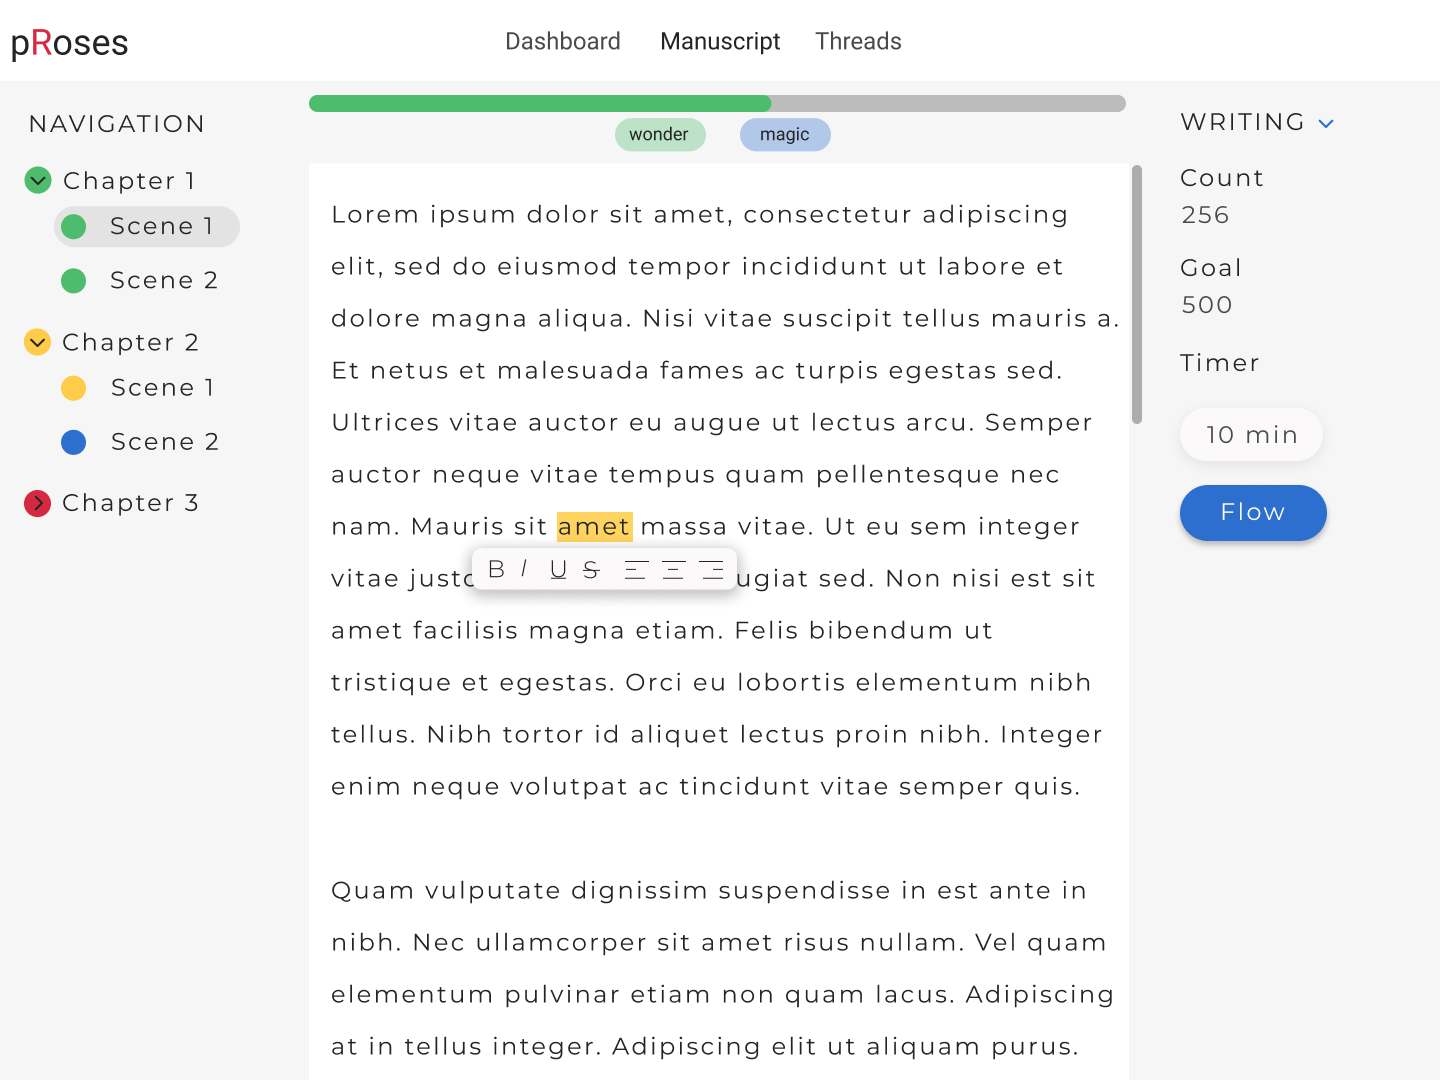
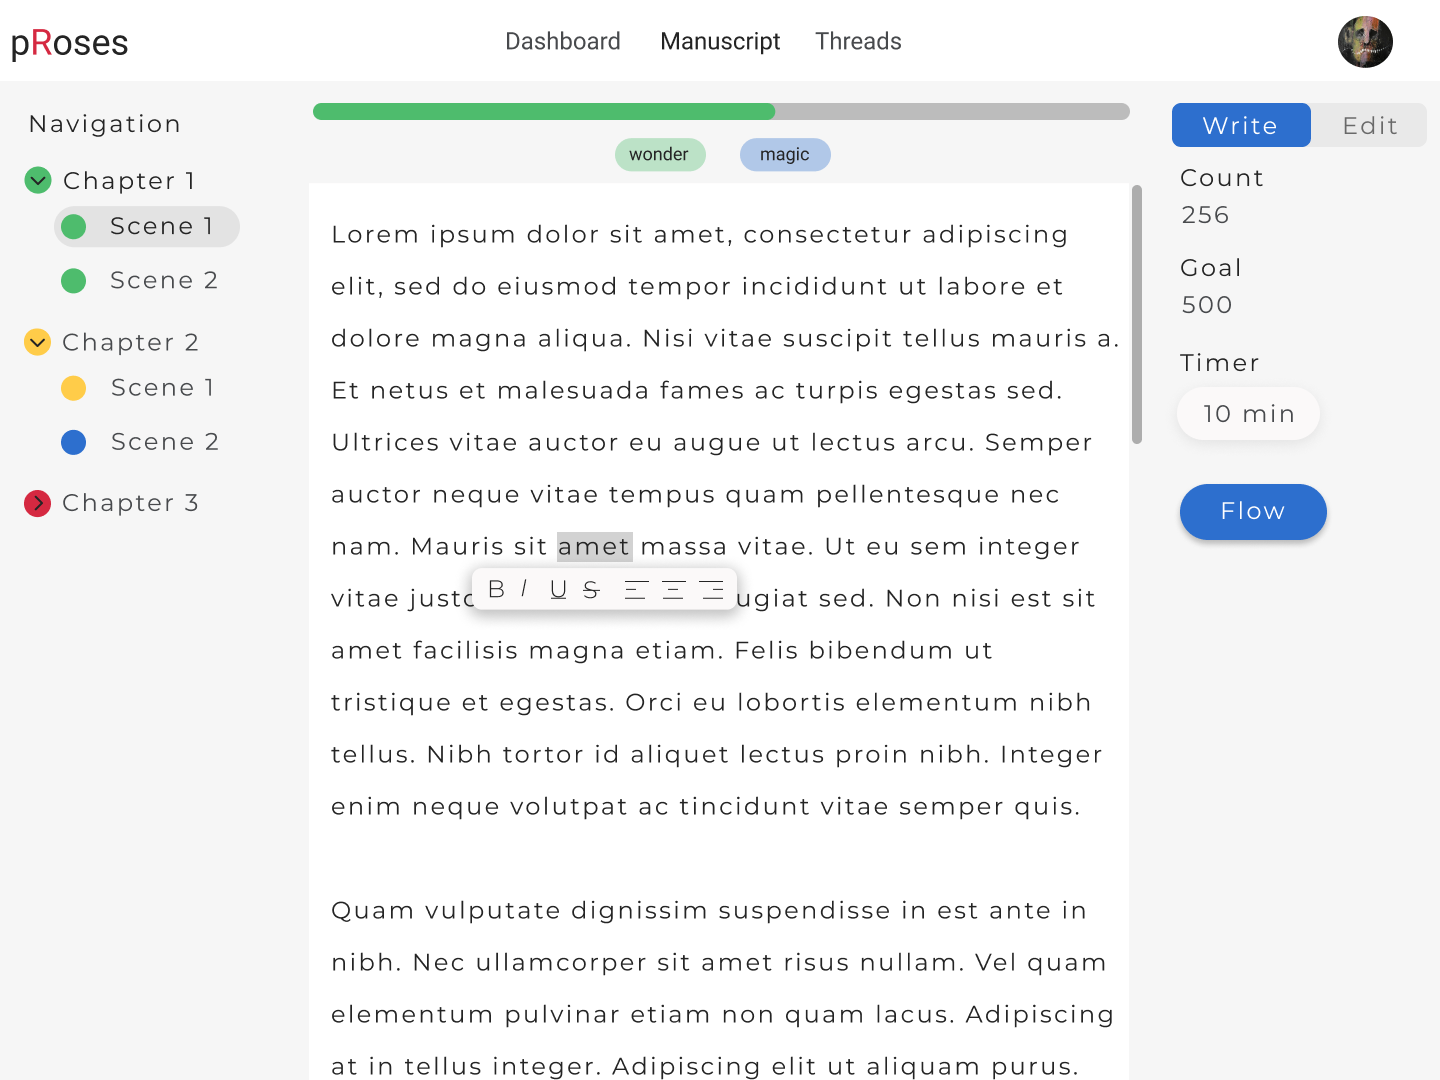
Changed Header

diff --git a/simplechartsri.html b/simplechartsri.html
@@ -44,11 +44,9 @@
         Help Teachers Create Engaging Visualizations
       </h2>
 
-      <div class="tags">
-        <div id="tag" style="padding-top: 1rem !important">
-          <p>10/11/21: Research Article Accepted by Frontiers Journal!</p>
-        </div>
-      </div>
+      <span id="header-tag"
+        >10/11/21: Research Article Accepted by Frontiers Journal!</span
+      >
     </section>
 
     <section
@@ -62,9 +60,8 @@
       <h3>Overview</h3>
       <p>
         SimpleChartsRI is a data visualization web-tool I was given the task of
-        creating while working on a grant under the
-        <b>National Science Foundation</b> at Rhode Island College, initially as
-        a Research Technician.
+        creating while working as a Research Technician on a grant under the
+        <b>National Science Foundation</b> at Rhode Island College.
       </p>
 
       <p>
@@ -120,7 +117,7 @@
       <p>
         During a data visualization workshop, I helped a group of teachers
         create a visualization that they would incorporate with a lesson plan.
-        While working with them, I noticed how the teachers <b>struggled</b> to
+        While working with them, I noticed how the <b>teachers struggled</b> to
         find datasets that would be simple and engaging for their high-school
         students. They asked questions like, "Would this be interesting to our
         students," "Is this data too complex," "Will our students have trouble
@@ -133,24 +130,17 @@
 
       <p>
         The initial foundation of the site was influenced through surveys
-        gathered from around 20 high-school teachers. This helped inform us on
-        what options they were expecting in a data visualization tool and what
-        would help them most. The aforementioned observations additionally
-        helped with this foundation.
-      </p>
-      <p>
-        To influence the design and help form the idea further, I
-        <b>extensively researched and reviewed literature</b>. I searched any
-        and all information that helped charts engage their audience. I found a
-        number of factors that played into how effective a visualization was.
-        The main takeaway I found was centered around the idea of
-        <b>proximity</b>.
+        gathered from around 20 high-school teachers. To influence the design
+        and help form the idea further, I
+        <b>extensively researched and reviewed literature</b>. I found a number
+        of factors that determined an effective visualization. The main takeaway
+        I found was centered around the idea of <b>proximity</b>.
       </p>
 
       <p>
-        This helped me guide the direction of SimpleChartsRI towards maintaining
-        a collection of datasets that would be relevant to a Rhode Island
-        high-school audience. This is what set apart our website from others. It
+        This helped guide the direction of SimpleChartsRI towards maintaining a
+        collection of datasets that would be relevant to a Rhode Island
+        high-school audience. This set apart our website from others. Our tool
         aimed to have ready-to-go datasets that teachers could instantly use,
         without any need for searching or cleaning it themselves. Because of the
         idea of proximity, the datasets would have a higher chance at
@@ -160,14 +150,9 @@
       <h3>What I Learned</h3>
       <p>
         This project gave me a passion for UX/UI work, research, and working
-        together with users to solve problems. It gave me an opportunity to work
-        on a project and think about all of its parts — both the whole picture
-        and every last miniscule detail. It helped me realize the empathy I have
-        for the user's experience. While it was a lot of work acting as the UX
-        Researcher, UX/UI Designer, Frontend Engineer, and Backend Engineer, it
-        taught me an incredible amount, and I thrived off the challenge. I found
-        that I deeply enjoy thinking about the user's journey through navigating
-        a website/product. I learned many lessons, but three stuck out the most.
+        together with users to solve problems. It helped me realize the empathy
+        I have for the user's experience. I learned many lessons throughout this
+        time, but three stuck out the most.
       </p>
 
       <p>
@@ -180,14 +165,11 @@
 
       <p>
         <b>Testing is Also... Everything </b>— Things go wrong. It's a natural
-        part of the process. Thinking about potential problems before they
-        happen can save future headaches. There can be backend problems with how
-        data is gathered, problems with how that data is sent to the frontend,
-        problems with the frontend... The list goes on and on. I learned how
-        regularly problems, even the same problems, can appear and reappear with
-        every change to the codebase. I walked away having a better appreciation
-        not only for testing, but for the design phase in general. Spending more
-        time on that phase can be crucial and save both time and money.
+        part of the process. I learned how regularly problems, even the same
+        problems, can appear and reappear with every change to the codebase. I
+        walked away having a better appreciation not only for testing, but for
+        the design phase in general. Spending more time on that phase can be
+        crucial and save both time and money.
       </p>
 
       <p>
@@ -195,7 +177,7 @@
         accomplished half of what I did on this project. Learning new
         technologies and focusing on a problem that I felt was crucial helped
         constantly motivate me. I went from knowing very little HTML, CSS, and
-        JavaScript, to feeling comfortable implementing any and every feature.
+        JavaScript, to feeling comfortable implementing any feature.
       </p>
 
       <p>
@@ -207,7 +189,7 @@
 
       <h3 style="text-align: center; margin-top: 4rem; margin-bottom: 2rem">
         The Site
-        <p style="margin-top: 2rem">
+        <p style="margin-top: 2rem; max-width: none">
           The version that I worked on (not the live version).
         </p>
       </h3>

diff --git a/index.html b/index.html
@@ -4,6 +4,7 @@
     <meta charset="utf-8" />
     <meta name="viewport" content="width=device-width, initial-scale=1" />
     <title>Matthew Spaulding's portfolio</title>
+    <link rel="shortcut icon" type="image/jpg" href="resources/favicon.ico" />
     <meta
       name="description"
       content="A personal showcase of Matthew Spaulding's developer projects."
@@ -77,14 +78,6 @@
               >-->
             </div>
           </section>
-
-          <section class="right-header">
-            <img
-              id="profile-img"
-              src="resources/profile.png"
-              alt="Handsome picture of the strapping young gentleman who made this website."
-            />
-          </section>
         </div>
       </section>
 
@@ -92,8 +85,10 @@
         <span id="header-tag"
           >10/11/21: Frontiers Journal Manuscript Accepted!</span
         >
-        <span id="header-tag">Favorite Podcast: Front End Happy Hour</span>
-        <span id="header-tag"
+        <span id="header-tag" style="margin-left: 3rem"
+          >Favorite Podcast: Front End Happy Hour</span
+        >
+        <span id="header-tag" style="margin-left: 3rem"
           >Currently Rereading: 100 Things Every Designer...
         </span>
       </section>

diff --git a/style/main.css b/style/main.css
@@ -83,19 +83,20 @@ body {
 
 .main-header {
   margin-top: 3rem;
-  padding: 3rem;
+  padding: 3rem 3rem 0rem 0;
   display: flex;
   flex-direction: row;
   justify-content: left;
   flex-wrap: wrap;
-  box-shadow: rgba(0, 0, 0, 0.1) 0px 4px 12px;
 }
 
 .header-info {
   display: flex;
   flex-direction: row;
   flex-wrap: wrap;
-  justify-content: center;
+  justify-content: flex-start;
+  margin-top: 1rem;
+  margin-bottom: 1rem;
 }
 
 #profile-img {
@@ -254,14 +255,13 @@ a {
   padding-top: 0.4rem;
   padding-bottom: 0.4rem;
   border-radius: 0.5rem;
-  margin-left: 1.5vw;
   vertical-align: text-bottom;
 }
 
 #header-tag {
   max-width: 250px;
-  font-size: 0.875rem;
-  line-height: 1.25rem;
+  font-size: 1rem;
+  line-height: 1.5rem;
   color: #10b981;
   background-color: #d1fae5;
   font-weight: 700;
@@ -271,7 +271,6 @@ a {
   padding-bottom: 0.4rem;
   border-radius: 0.5rem;
   margin-top: 2rem;
-  margin-left: 3rem;
   margin-bottom: 2rem;
   vertical-align: text-bottom;
 }

diff --git a/style/project.css b/style/project.css
@@ -108,9 +108,27 @@ h3 {
   color: whitesmoke;
 }
 
+#header-tag {
+  max-width: 500px;
+  font-size: 1.1rem;
+  line-height: 1.5rem;
+  color: #10b981;
+  background-color: #d1fae5;
+  font-weight: 700;
+  padding-left: 0.5rem;
+  padding-right: 0.5rem;
+  padding-top: 0.7rem;
+  padding-bottom: 0.7rem;
+  border-radius: 0.5rem;
+  margin-top: 1rem;
+  margin-bottom: 1rem;
+  vertical-align: text-bottom;
+}
+
 p {
   font-size: 1.2rem;
   color: #484a4d;
+  max-width: 700px;
 }
 
 video {
@@ -139,8 +157,8 @@ img:hover {
 }
 
 #tag {
-  font-size: 0.875rem;
-  line-height: 1.25rem;
+  font-size: 1rem;
+  line-height: 1.5rem;
   color: #10b981;
   background-color: #d1fae5;
   font-weight: 700;
@@ -149,7 +167,6 @@ img:hover {
   padding-top: 0.4rem;
   padding-bottom: 0.4rem;
   border-radius: 0.5rem;
-  margin-left: 1.5vw;
   vertical-align: text-bottom;
 }
 

diff --git a/proses.html b/proses.html
@@ -146,10 +146,10 @@
       <h3>Dashboard</h3>
       <img src="resources/proses-dashboard-v2.png" />
       <h3>Manuscript</h3>
-      <h4>Session View</h4>
+      <h4>Write View</h4>
       <img src="resources/proses-Manuscript-Session.png" />
       <h3>Manuscript</h3>
-      <h4>Analysis View</h4>
+      <h4>Edit View</h4>
       <img src="resources/proses-Manuscript-Analysis.png" />
     </section>
   </body>
